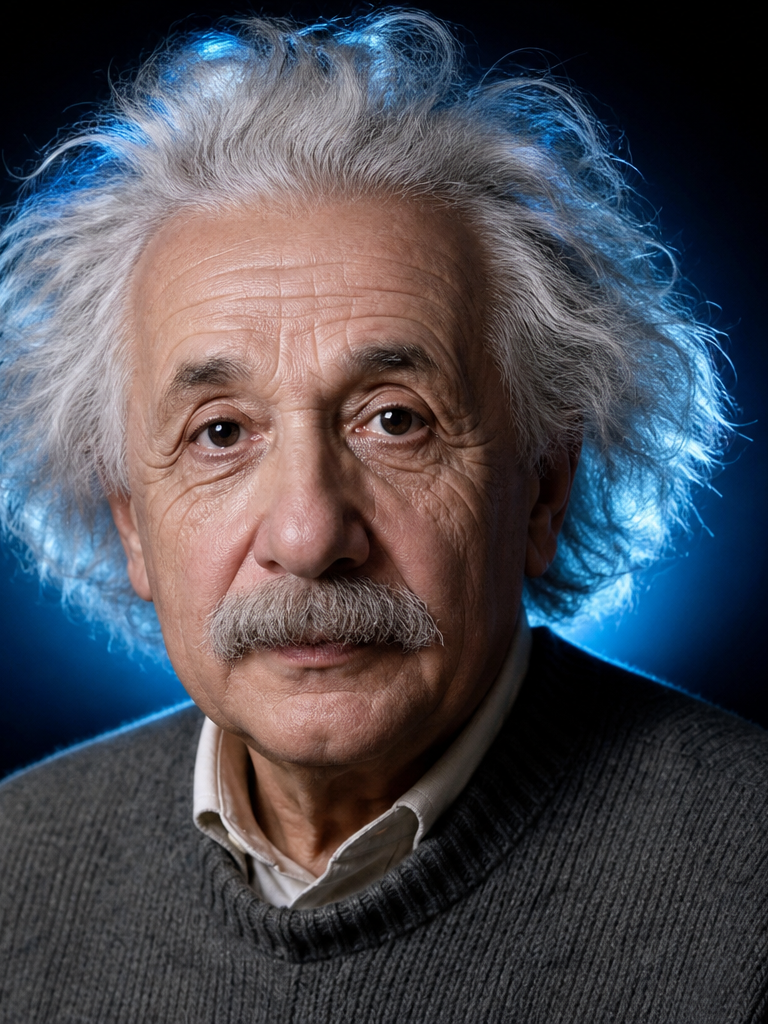
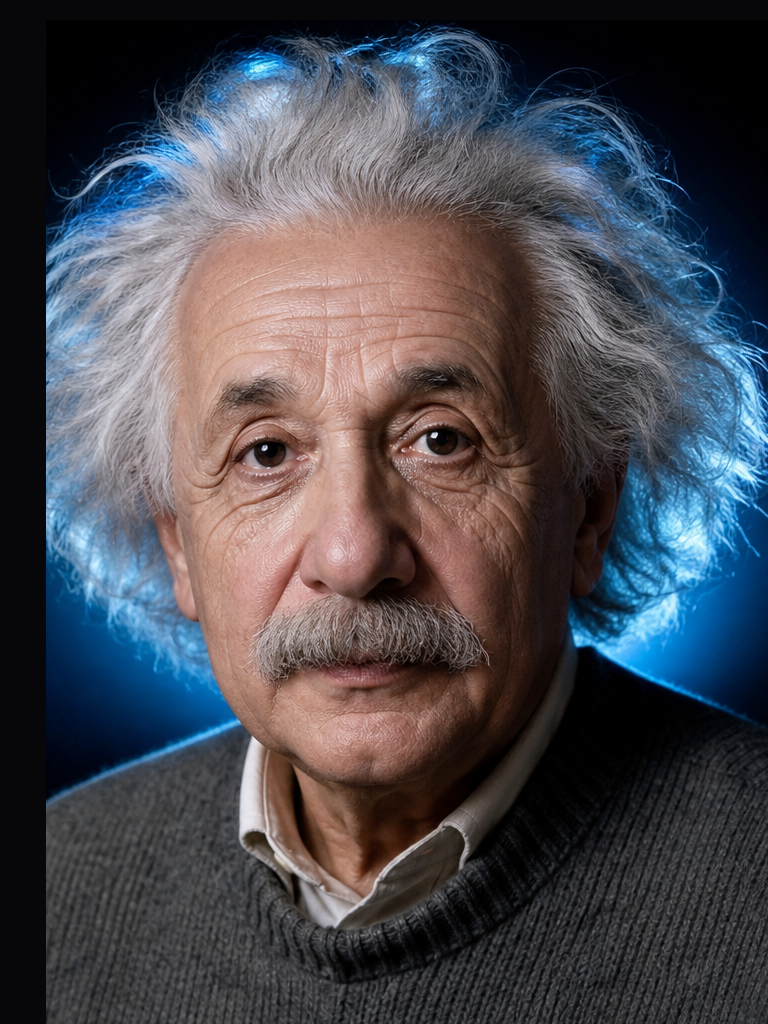
Center Einstein in the portrait box.

diff --git a/index.html b/index.html
@@ -479,8 +479,8 @@
     .portrait img {
       width: 100%;
       height: 100%;
-      object-fit: contain;
-      object-position: center top;
+      object-fit: cover;
+      object-position: center center;
       display: block;
       pointer-events: none;
       user-select: none;
@@ -2181,7 +2181,7 @@
     <p class="mark" id="wordmark" role="link" tabindex="0" aria-label="Back to start" title="multiversal.ai"><span class="m">M</span><span class="u">U</span><span class="l">L</span><span class="t">T</span><span class="i">I</span>versal <span class="accent dot">.ai</span></p>
     <div class="header-actions" id="header-actions">
       <a class="mail-link" id="header-mail" href="mailto:hello@multiversal.ai" title="Email hello@multiversal.ai">hello@multiversal.ai</a>
-      <img class="header-face" id="header-face" src="assets/header-face.png?v=3" alt="" width="28" height="28" />
+      <img class="header-face" id="header-face" src="assets/header-face.png?v=4" alt="" width="28" height="28" />
       <button type="button" class="account-link" id="header-account">My account</button>
     </div>
     <p class="promise" id="promise">A named voice you put on Grok.</p>
@@ -2218,7 +2218,7 @@
       <div class="stage">
       <div class="portrait-wrap">
         <div class="portrait">
-          <img id="agent-face" src="assets/agent-face.png?v=3" alt="" />
+          <img id="agent-face" src="assets/agent-face.png?v=4" alt="" />
         </div>
       </div>
 
@@ -2252,7 +2252,7 @@
       <div class="stage">
       <div class="portrait-wrap">
         <div class="portrait">
-          <img id="agent-face-doors" src="assets/agent-face.png?v=3" alt="" />
+          <img id="agent-face-doors" src="assets/agent-face.png?v=4" alt="" />
         </div>
       </div>
 
